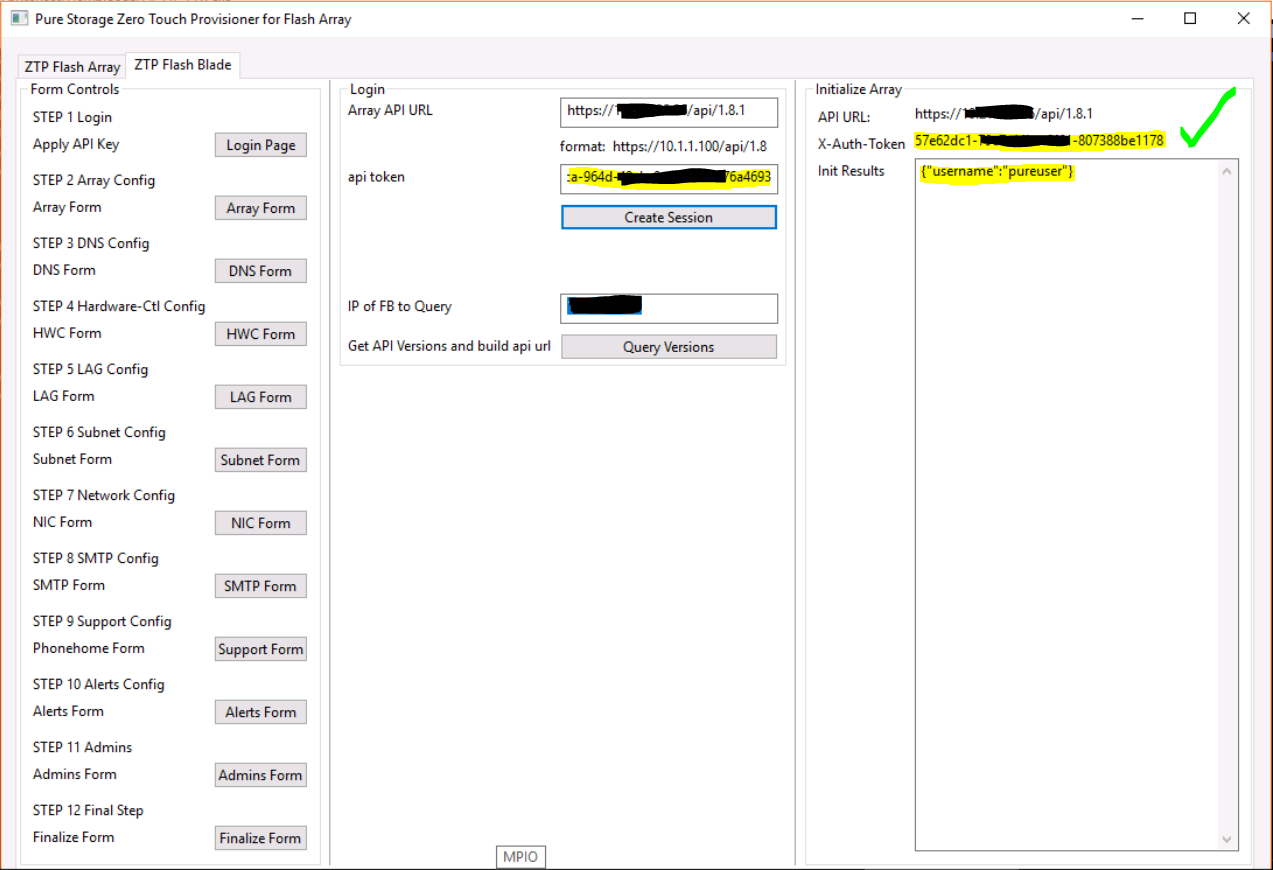
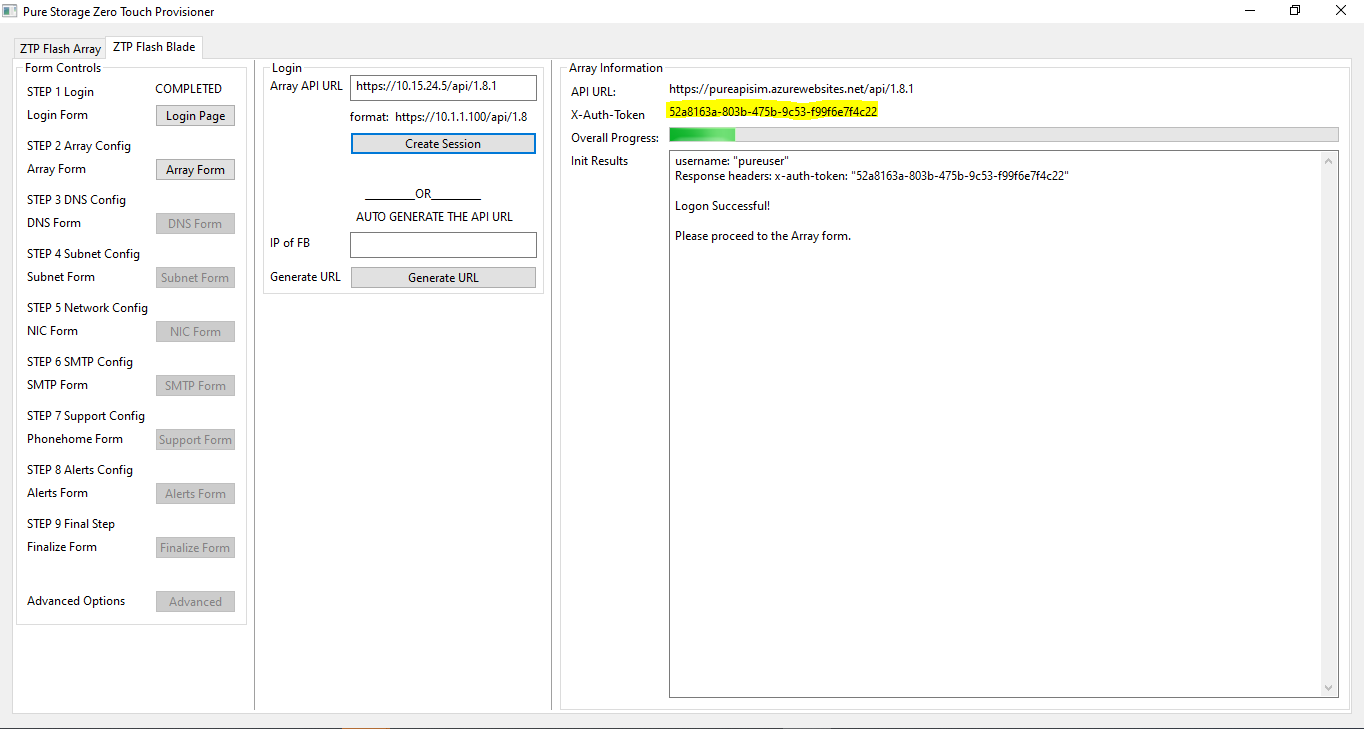
updates to readme and new screenshots.

diff --git a/Readme.md b/Readme.md
@@ -28,21 +28,19 @@ When ready to initialize, press the Initialize Array button in Column 3 and view
 
 Select the ZTP Flash Blade Tab.
 
-The ZTP Flash Blade tab is comprised of 3 columns as well.  Column 1 provides the 12 Steps necessary to configure a Flash Blade in order of operation.  Each step contains a button that will display the relevant form and controls for the associated step.  Column 2 is the Form fields and controls to query and apply required configurations relevant to each of the 12 steps.  Column 3 provides the output of each action.
+The ZTP Flash Blade tab is comprised of 3 columns as well.  Column 1 provides the 9 Steps necessary to configure a Flash Blade in order of operation.  Each step contains a button that will display the relevant form and controls for the associated step.  Column 2 is the Form fields and controls to query and apply required configurations relevant to each of the 9 steps.  Column 3 provides the output of each action.
 
-In order to authenticate to a Flash Blade using the ZTP tool, you will need the managment IP address of the Array as well as the api-token for the default pureuser.  To obtain the default api-token you can ssh into the FB and issue the command ```pureadmin list --api-token --expose```
+In order to authenticate to a Flash Blade using the ZTP tool, you will need the DHCP IP of the Flash Blade.
 
 To begin you will can either query the Flash Blade to obtain the API versions and auto generate the API url for the "Array API URL" field or you can manually enter the API url in the "Array API URL" field.  If you manually enter the API URL you must include the version and have the format as http or ```https://<fqdn or ip of array>/api/<api version>```
 
 ![Query the Array builds the API URL with the latest support version](assets/FBQuery.PNG)
 
-Once you have the API url in place you will need to provide the "API Token" that will be used to login to the array and generate the "x-auth-token" that will be used for the remainder of the configuration.
-
-When you have both the API token and the API url in place, clicking the "Create Session" button should result in the API URL and x-auth-token labels in column 3 displaying the resulting values.
+When you have the API url in place, clicking the "Create Session" button should result in the API URL and x-auth-token labels in column 3 displaying the resulting values.  If you do not see a value listed in the x-auth-token label field then the session was not created.
 
 ![Create Session logs into the array using the api-token and gets a session token called x-auth-token](assets/FBCreateSession.PNG)
 
-When the above is successful you are ready to move to Step 2 - Step 12 in succession.
+When the above is successful you are ready to move to Step 2 - Step 9 in succession.
 
 ### Prerequisites
 
@@ -59,6 +57,10 @@ For Linux, (desktop GUI is required) download and launch appropriate ZTP binary,
 ```
 For MacOS, download the appropriate ZTP binary, open terminal, set the binary to executable "chmod +x", execute it and fill out the form.
 ```
+
+## Video Tutorial
+
+[![Video Tutorial](assets/ZTP_HowTo_First_Frame.png)](https://youtu.be/LN13cpuA3Jc)
 
 ## Screen Shots
 
